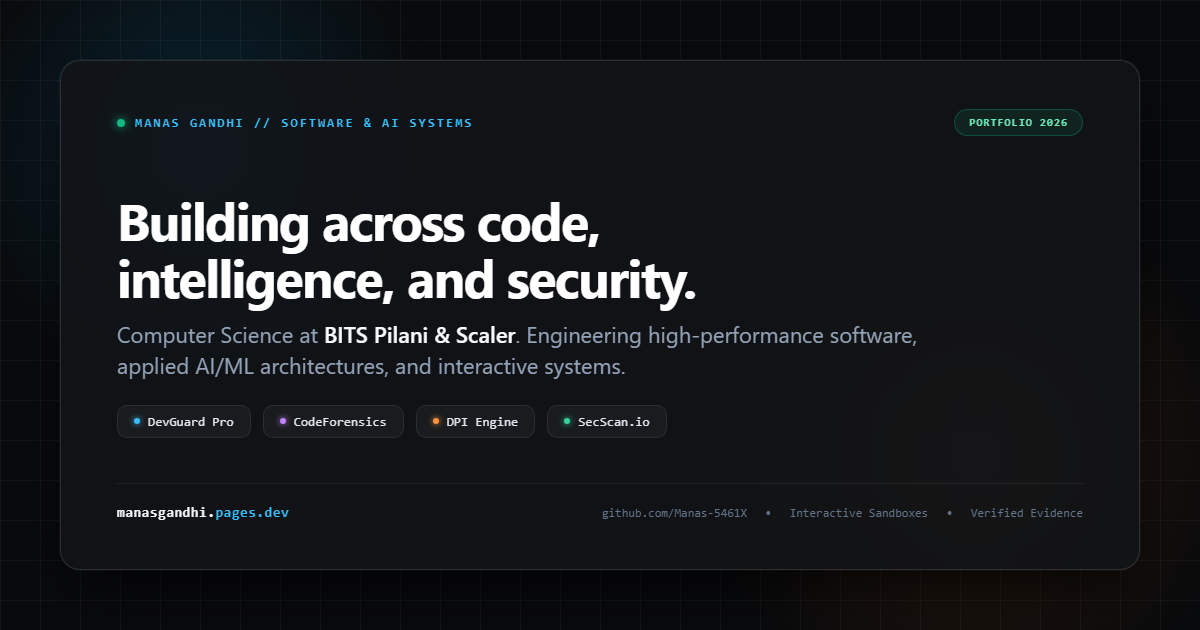
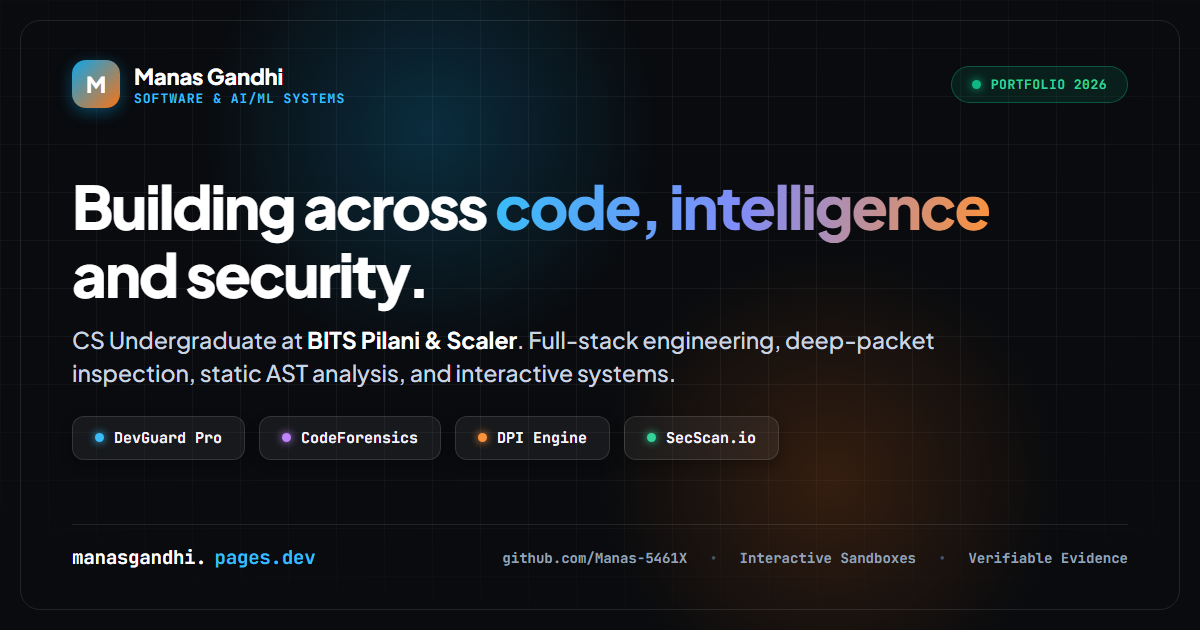
fix(og-image): redesign og card with bold typography and cache-busting v2

diff --git a/index.html b/index.html
@@ -20,8 +20,8 @@
       property="og:description"
       content="Computer Science undergraduate building across full-stack software engineering, applied AI/ML, and security tooling: DevGuard Pro, CodeForensics, DPI Engine, and SecScan.io."
     />
-    <meta property="og:image" content="https://manasgandhi.pages.dev/og-image.png" />
-    <meta property="og:image:secure_url" content="https://manasgandhi.pages.dev/og-image.png" />
+    <meta property="og:image" content="https://manasgandhi.pages.dev/og-image.png?v=2" />
+    <meta property="og:image:secure_url" content="https://manasgandhi.pages.dev/og-image.png?v=2" />
     <meta property="og:image:type" content="image/png" />
     <meta property="og:image:width" content="1200" />
     <meta property="og:image:height" content="630" />
@@ -34,7 +34,7 @@
       name="twitter:description"
       content="Building across code, intelligence, and security. Explore DevGuard Pro, CodeForensics, DPI Engine, and SecScan.io."
     />
-    <meta name="twitter:image" content="https://manasgandhi.pages.dev/og-image.png" />
+    <meta name="twitter:image" content="https://manasgandhi.pages.dev/og-image.png?v=2" />
     <meta name="twitter:image:alt" content="Manas Gandhi — Software, AI/ML & Systems Engineering Portfolio" />
 
     <link rel="icon" type="image/svg+xml" href="/favicon.svg" />

diff --git a/src/hooks/useMeta.ts b/src/hooks/useMeta.ts
@@ -17,7 +17,7 @@ function setMetaTag(selector: string, attrName: string, attrVal: string, content
   el.setAttribute('content', content);
 }
 
-export function useMeta({ title, description, path = '/', image = '/og-image.png' }: MetaOptions): void {
+export function useMeta({ title, description, path = '/', image = '/og-image.png?v=2' }: MetaOptions): void {
   useEffect(() => {
     document.title = title;
     setMetaTag('meta[name="description"]', 'name', 'description', description);
